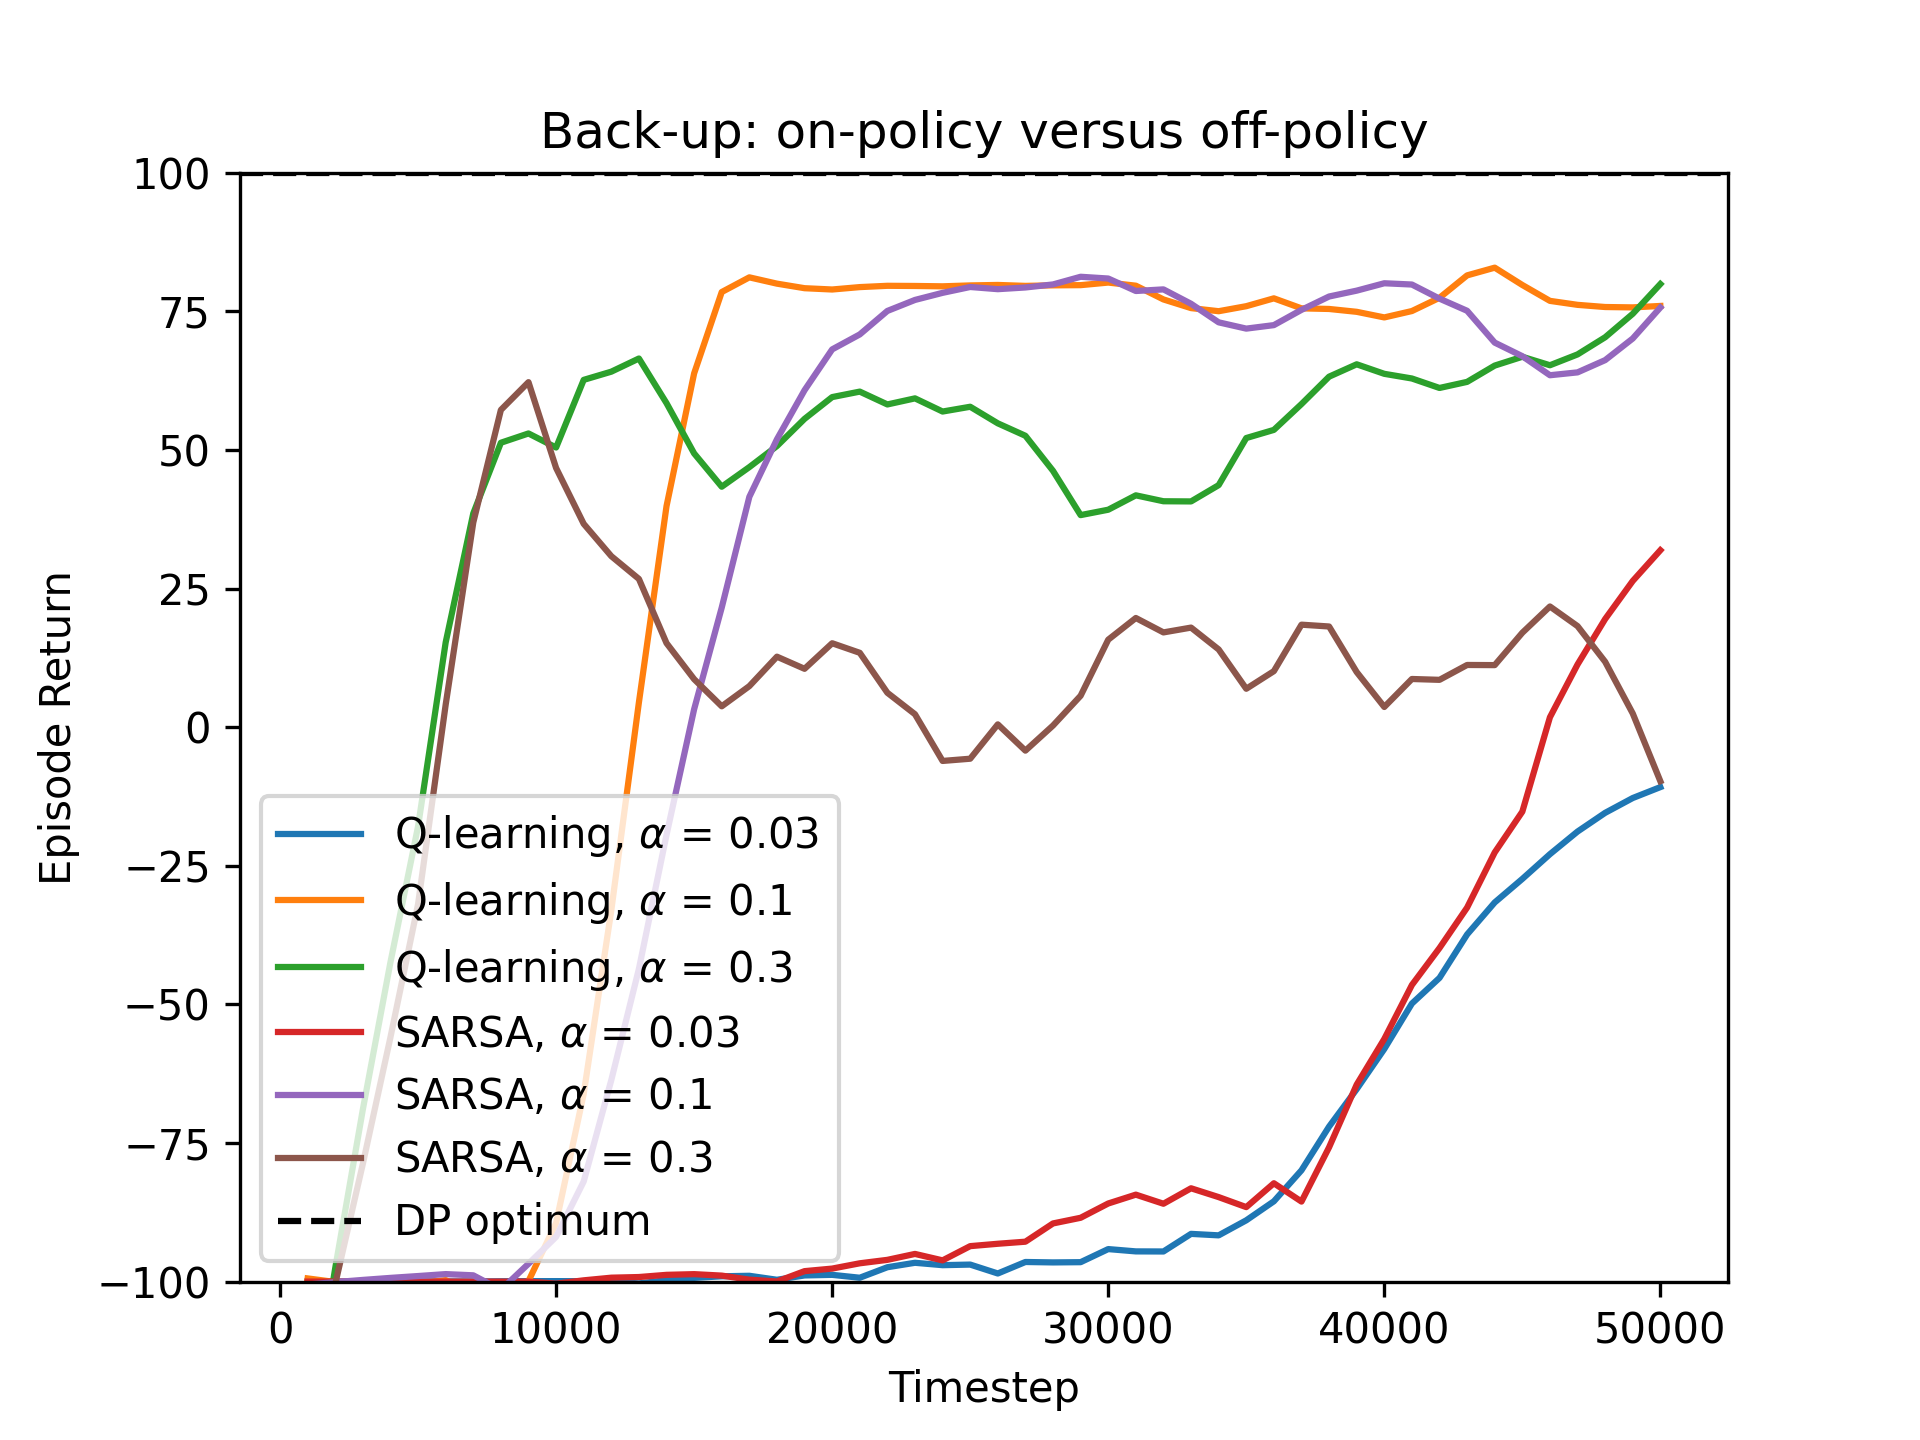
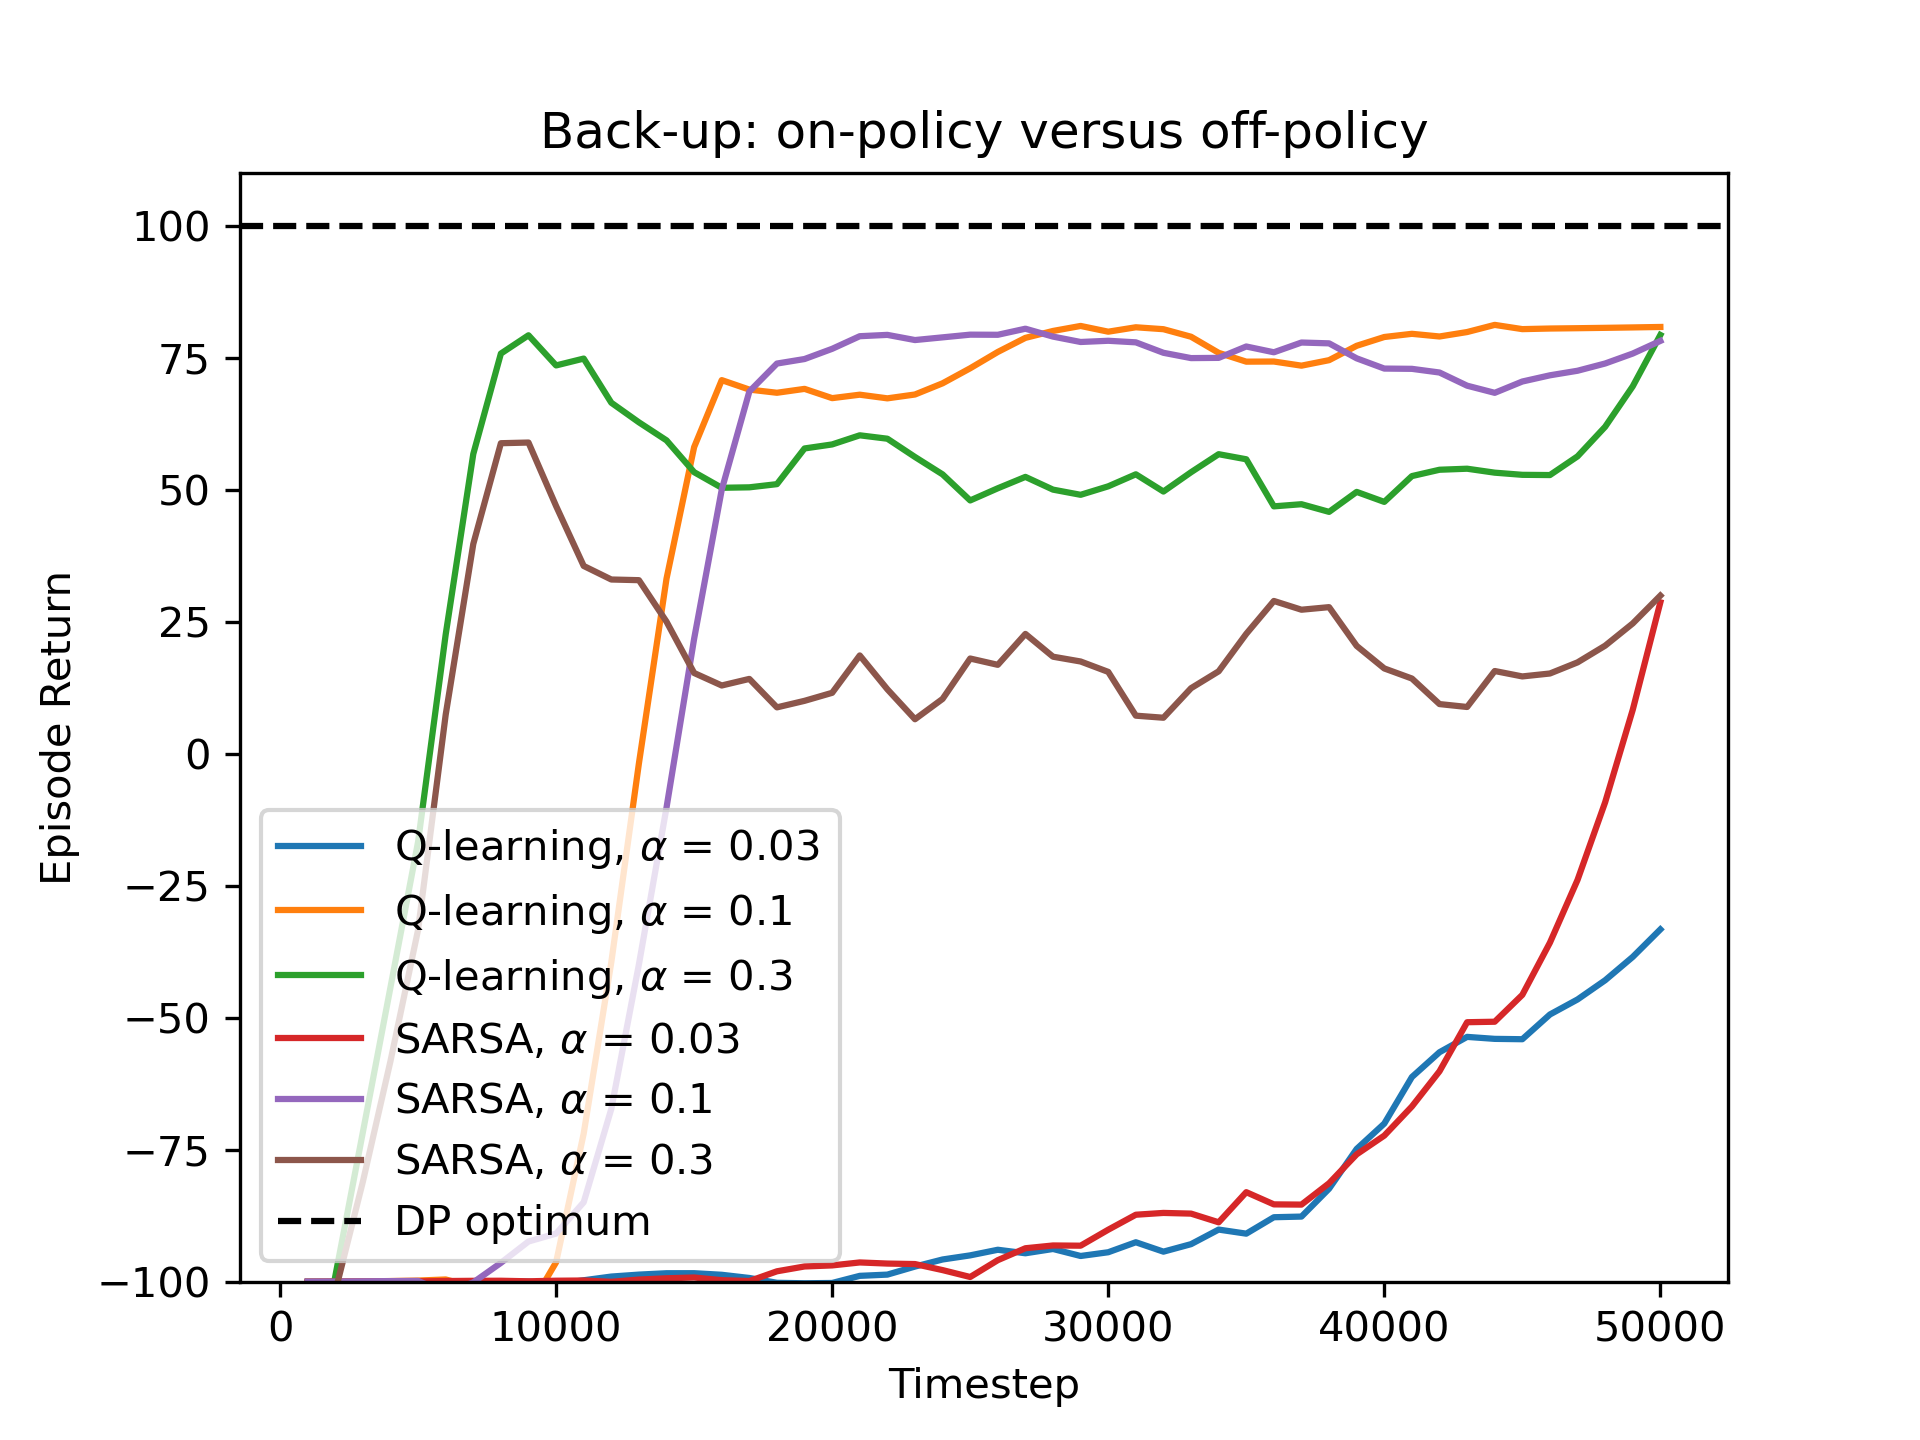
clearer plots

diff --git a/Experiment.py b/Experiment.py
@@ -118,7 +118,7 @@ def experiment():
     backup = 'nstep'
     ns = [1,3,10]
     Plot = LearningCurvePlot(title = 'Back-up: depth')   
-    Plot.set_ylim(-100, 100) 
+    Plot.set_ylim(-100, 110) 
     for n in ns:
         learning_curve, timesteps = average_over_repetitions(backup, n_repetitions, n_timesteps, max_episode_length, learning_rate, 
                                               gamma, policy, epsilon, temp, smoothing_window, plot, n, eval_interval)

diff --git a/Environment.py b/Environment.py
@@ -6,7 +6,7 @@ Leiden University, The Netherlands
 By Thomas Moerland
 """
 import matplotlib
-matplotlib.use('Qt5Agg') # 'TkAgg'
+matplotlib.use('Qt5Agg')
 import numpy as np
 import matplotlib.pyplot as plt
 from matplotlib.patches import Rectangle,Circle,Arrow
